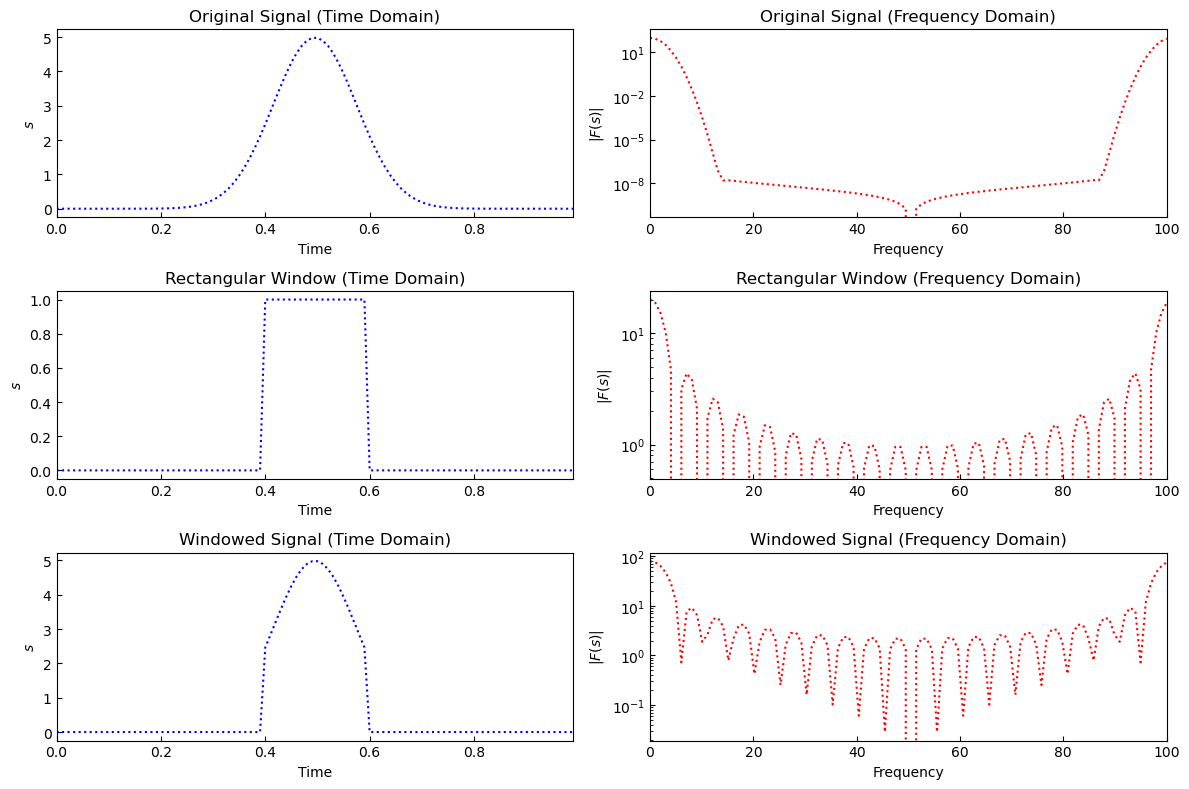
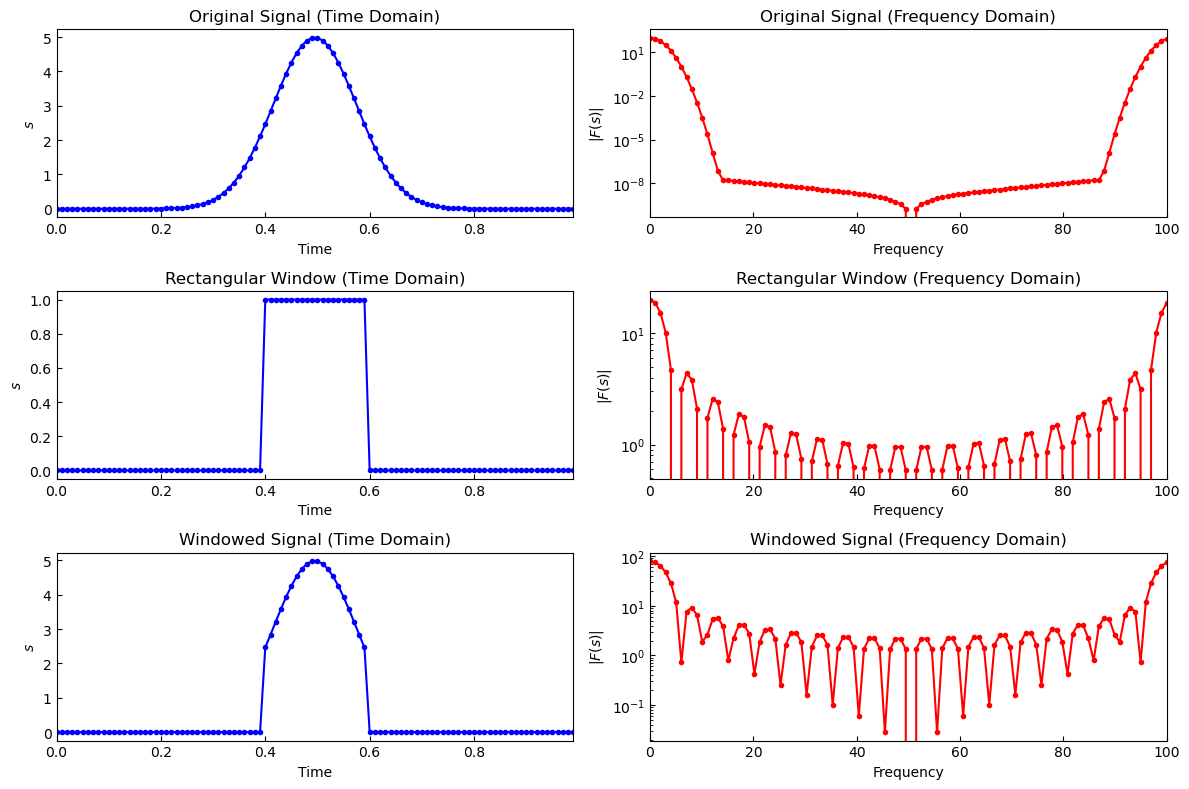
Update

diff --git a/fft/dft__leakage.py b/fft/dft__leakage.py
@@ -18,7 +18,7 @@ original_signal = 1/np.sqrt(2*np.pi)/sigma * np.exp(-0.5*((t-mu)/sigma)**2)
 # Rectangular window function
 window = np.ones_like(t)
 window_width = 0.2
-window[:int((0.5-window_width/2)*len(t))] = 0
+window[:int((0.5-window_width/2)*len(t)) ] = 0
 window[ int((0.5+window_width/2)*len(t)):] = 0
 
 # Signal multiplied by the window function
@@ -36,13 +36,13 @@ freq = np.linspace(0, fs, len(t))
 fig, axs = plt.subplots(3, 2, figsize=(12, 8))
 
 # Plotting the original signal in time and frequency domain
-axs[0, 0].plot(t, original_signal, linestyle=":", color='blue')
+axs[0, 0].plot(t, original_signal, linestyle="-", color='blue', marker='o', label='line with marker', ms=3)
 axs[0, 0].set_title("Original Signal (Time Domain)")
 axs[0, 0].set_xlabel("Time")
 axs[0, 0].set_ylabel("$s$")
 axs[0, 0].set_xlim(min(t), max(t))
 
-axs[0, 1].plot(freq, np.abs(fft_original), linestyle=":", color='red')
+axs[0, 1].plot(freq, np.abs(fft_original), linestyle="-", color='red', marker='o', label='line with marker', ms=3)
 axs[0, 1].set_title("Original Signal (Frequency Domain)")
 axs[0, 1].set_xlabel("Frequency")
 axs[0, 1].set_ylabel(r"$|F(s)|$")
@@ -50,13 +50,13 @@ axs[0, 1].set_xlim(min(freq), max(freq))
 axs[0, 1].set_yscale('log')
 
 # Plotting the window function in time and frequency domain
-axs[1, 0].plot(t, window, linestyle=":", color='blue')
+axs[1, 0].plot(t, window, linestyle="-", color='blue', marker='o', label='line with marker', ms=3)
 axs[1, 0].set_title("Rectangular Window (Time Domain)")
 axs[1, 0].set_xlabel("Time")
 axs[1, 0].set_ylabel("$s$")
 axs[1, 0].set_xlim(min(t), max(t))
 
-axs[1, 1].plot(freq, np.abs(fft_window), linestyle=":", color='red')
+axs[1, 1].plot(freq, np.abs(fft_window), linestyle="-", color='red', marker='o', label='line with marker', ms=3)
 axs[1, 1].set_title("Rectangular Window (Frequency Domain)")
 axs[1, 1].set_xlabel("Frequency")
 axs[1, 1].set_ylabel(r"$|F(s)|$")
@@ -65,13 +65,13 @@ axs[1, 1].set_yscale('log')
 
 
 # Plotting the windowed signal in time and frequency domain
-axs[2, 0].plot(t, windowed_signal, linestyle=":", color='blue')
+axs[2, 0].plot(t, windowed_signal, linestyle="-", color='blue', marker='o', label='line with marker', ms=3)
 axs[2, 0].set_title("Windowed Signal (Time Domain)")
 axs[2, 0].set_xlabel("Time")
 axs[2, 0].set_ylabel("$s$")
 axs[2, 0].set_xlim(min(t), max(t))
 
-axs[2, 1].plot(freq, np.abs(fft_windowed_signal), linestyle=":", color='red')
+axs[2, 1].plot(freq, np.abs(fft_windowed_signal), linestyle="-", color='red', marker='o', label='line with marker', ms=3)
 axs[2, 1].set_title("Windowed Signal (Frequency Domain)")
 axs[2, 1].set_xlabel("Frequency")
 axs[2, 1].set_ylabel(r"$|F(s)|$")
